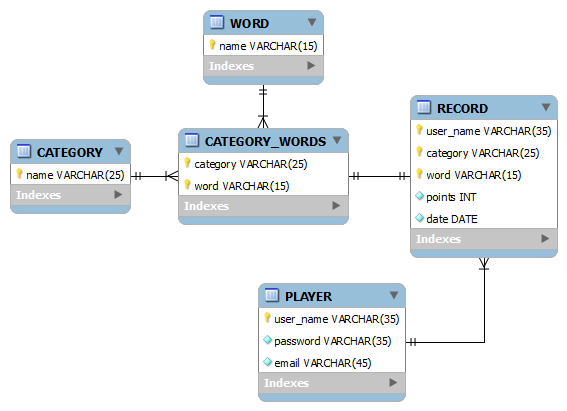
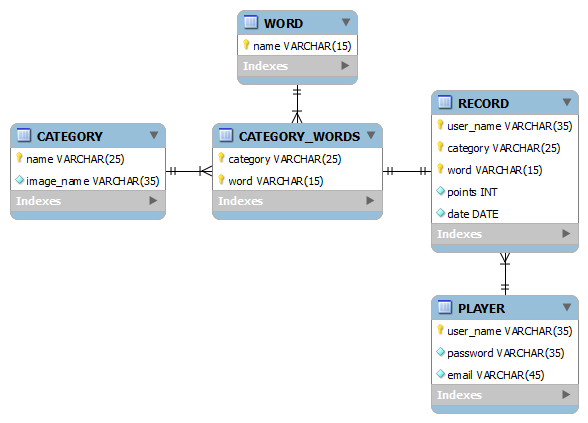
Changing ER Model and Adding new Images.
Changing the ER Model for supporting categories' images path.
Adding categories' images mock for testing.

Changed region(s): [[0.0, 0.0, 0.9894, 0.9927]]

diff --git a/AndroidApplication/AhorcadoMobileOSApp/gen/co/edu/udea/os/ahorcado/R.java b/AndroidApplication/AhorcadoMobileOSApp/gen/co/edu/udea/os/ahorcado/R.java
@@ -56,7 +56,19 @@ public final class R {
         public static final int vertical_spacing_grid_view=0x7f050006;
     }
     public static final class drawable {
-        public static final int ic_launcher=0x7f020000;
+        public static final int ic_clothes_category=0x7f020000;
+        public static final int ic_education_category=0x7f020001;
+        public static final int ic_foods_category=0x7f020002;
+        public static final int ic_geography_category=0x7f020003;
+        public static final int ic_home_category=0x7f020004;
+        public static final int ic_launcher=0x7f020005;
+        public static final int ic_leisure_category=0x7f020006;
+        public static final int ic_music_category=0x7f020007;
+        public static final int ic_nature_category=0x7f020008;
+        public static final int ic_religions_category=0x7f020009;
+        public static final int ic_sports_category=0x7f02000a;
+        public static final int ic_technology_category=0x7f02000b;
+        public static final int ic_verbs_category=0x7f02000c;
     }
     public static final class id {
         public static final int best_records_list_view=0x7f0b0000;
